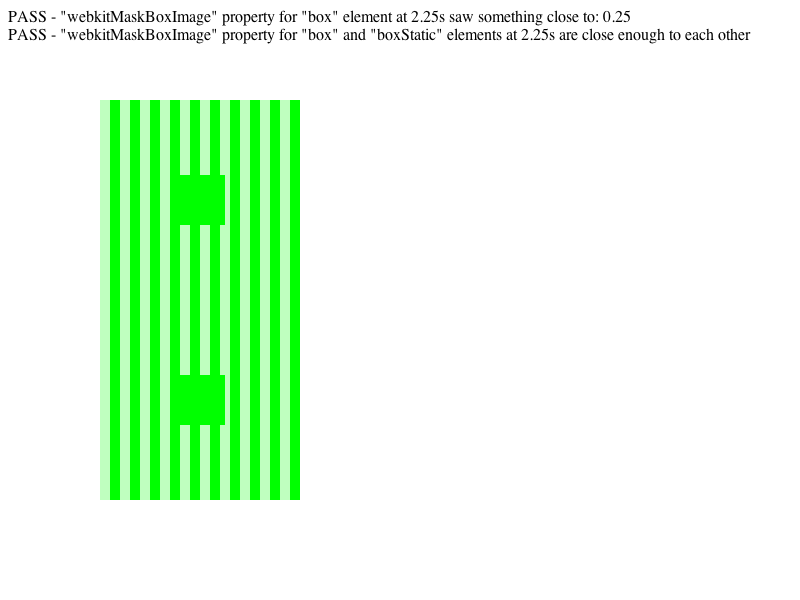
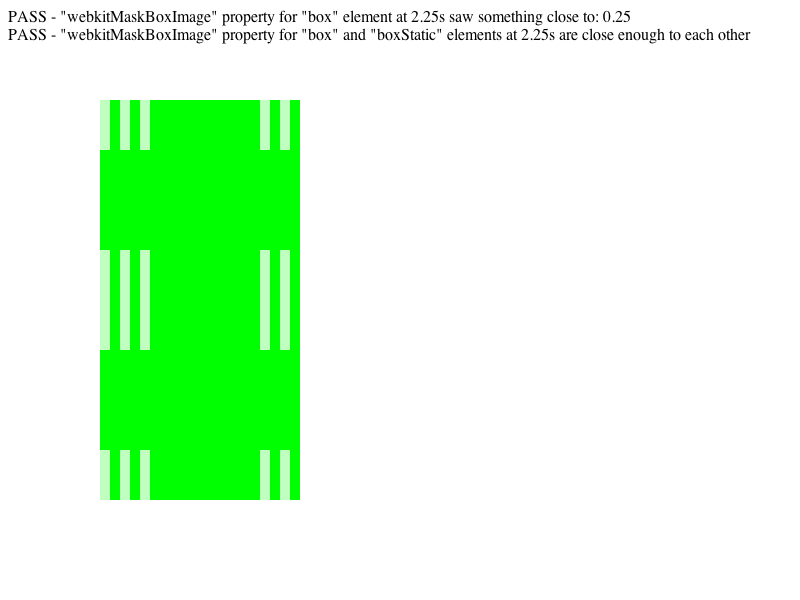
Borders and box masks behave incorrectly with overlapping offsets https://bugs.webkit.org/show_bug.cgi?id=76137
Source/WebCore:

Reviewed by Dave Hyatt.

When border-image-slice sizes add up to more than the height or width
of the border-image, the middle sections should not be rendered, per spec.

Test: fast/borders/border-image-slice-constrained.html

* rendering/RenderBoxModelObject.cpp:
(WebCore::RenderBoxModelObject::paintNinePieceImage):

LayoutTests:

Reviewed by Dave Hyatt.

Testcase with border-image slices adding up to more than the height/width
of the border image.

Fixed cross-fade-webkit-mask-box-image.html to use slices that are half
of the image width.

* animations/cross-fade-webkit-mask-box-image.html:
* fast/borders/border-image-slice-constrained.html: Added.
* platform/mac/animations/cross-fade-webkit-mask-box-image-expected.png:
* platform/mac/fast/borders/border-image-slice-constrained-expected.png: Added.
* platform/mac/fast/borders/border-image-slice-constrained-expected.txt: Added.

git-svn-id: http://svn.webkit.org/repository/webkit/trunk/LayoutTests@104851 268f45cc-cd09-0410-ab3c-d52691b4dbfc

Changed region(s): [[0.125, 0.15, 0.375, 0.84]]

diff --git a/animations/cross-fade-webkit-mask-box-image.html b/animations/cross-fade-webkit-mask-box-image.html
@@ -17,11 +17,11 @@
         height: 200px;
         width: 200px;
         background-color: red;
-        -webkit-mask-box-image: -webkit-cross-fade(url(resources/stripes-100.png), url(resources/green-100.png), 25%) 75 stretch;
+        -webkit-mask-box-image: -webkit-cross-fade(url(resources/stripes-100.png), url(resources/green-100.png), 25%) 50 stretch;
     }
     @-webkit-keyframes anim {
-        from { -webkit-mask-box-image: url(resources/stripes-100.png) 75 stretch; }
-        to   { -webkit-mask-box-image: url(resources/green-100.png) 75 stretch; }
+        from { -webkit-mask-box-image: url(resources/stripes-100.png) 50 stretch; }
+        to   { -webkit-mask-box-image: url(resources/green-100.png) 50 stretch; }
     }
   </style>
   <script src="resources/animation-test-helpers.js" type="text/javascript" charset="utf-8"></script>

diff --git a/fast/borders/border-image-slice-constrained.html b/fast/borders/border-image-slice-constrained.html
@@ -1,0 +1,29 @@
+<html>
+<head>
+    <style>
+        div {
+            border-width: 21px 30px 30px 21px;
+            width: 120px;
+            height: 120px;
+            margin: 10px;
+            border-image-source: url("resources/border-image.png");
+            border-image-repeat: repeat;
+            display: inline-block;
+        }
+
+        div.tl {
+            /* Normal case */
+            border-image-slice:  21 30 30 21 fill;
+        }
+
+        div.tr {
+            /* Slice total larger than image size */
+            border-image-slice: 42 60 60 42 fill;
+        }
+    </style>
+</head>
+<body>
+    <div class="tl"></div>
+    <div class="tr"></div>
+</body>
+</html>
